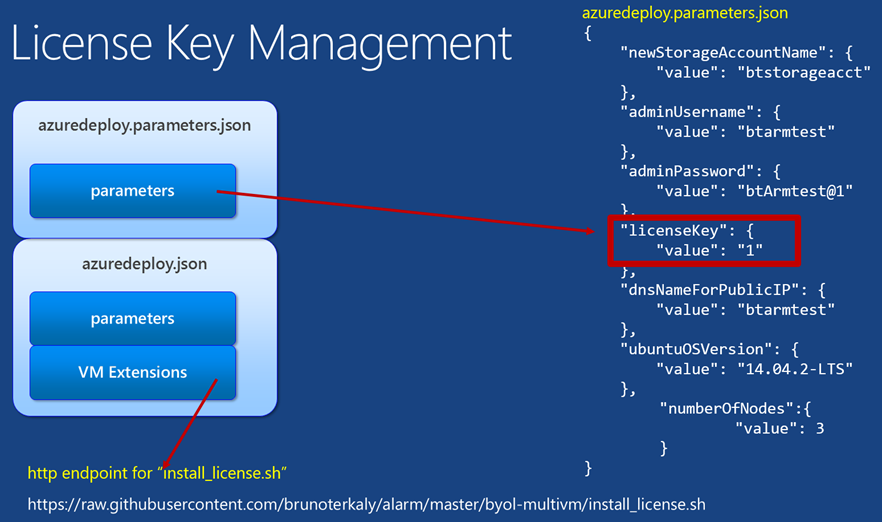
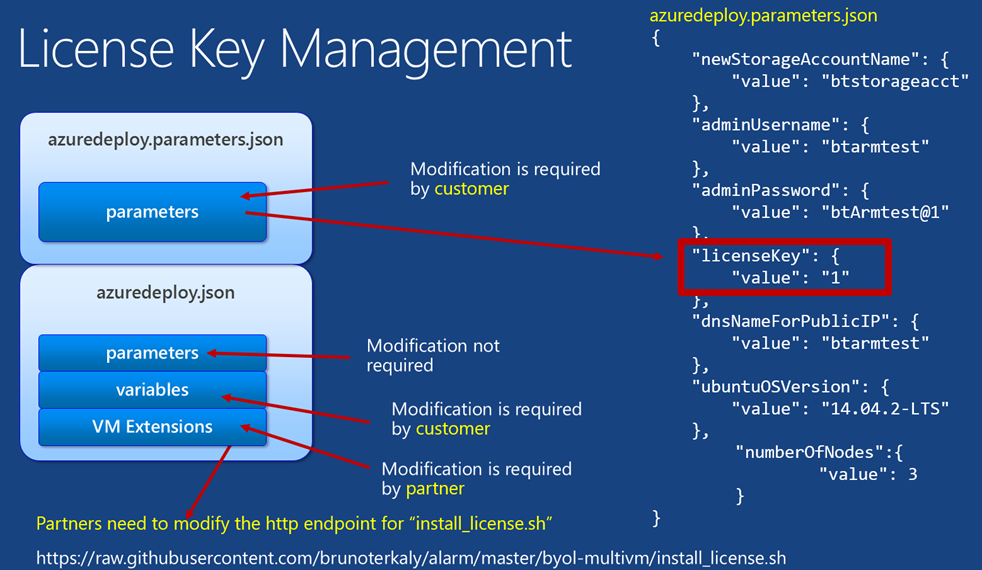
new updates

diff --git a/README.md b/README.md
@@ -15,6 +15,19 @@ Easier for parnters to onboard to the marketplace.
 
 ![](images/buylicense.png)
 
+
+## High level steps
+
+This document will go over some detail steps in deploying license files to Linux VMs. 
+
+- It begins by getting access to a Linux computer that will be used to execute the provisioning process. 
+- The provisioning process will begin by installing the Azure cross platform client tools on the Linux computer.
+-  Next, the necessary installation scripts and provisioning artifacts will be downloaded from Github using the git clone command. 
+	-  Some modifications will need to be made from this downloaded content. Both the partner as well as the customers and the partner will need to make these modifications. The partner defines the way the license file gets copied to the provisioned Linux VM. 
+-  But it is the end customer that runs the provisioning process. It will the customer that places the license key, and defines the attributes of the provisioned infrastructure, physically kick off the provisioning process.
+
+![](images/snap022.png)
+
 ## How this content can help
 
 The purpose of this content is to enable your customers to quickly and easily place the license keys in virtual machines that they provision.
@@ -23,6 +36,7 @@ The purpose of this content is to enable your customers to quickly and easily pl
 - This document will help you simplify replacements of life in school on provisioned virtual machines
 - Your customers will:
 	- Need to begin by provisioning a Linux virtual machine through the portal
+        - If the don't already have a Linux computer
 	- Install the Azure cross platform tooling on the Linux VM
 	- Will clone this repository to the Linux VM
 	- Make necessary changes to azuredeploy.json to include customer information as well as license key information
@@ -30,7 +44,7 @@ The purpose of this content is to enable your customers to quickly and easily pl
 
 ## Getting Setup
 
-If you don't already have one, one of the first things you'll need to do is provision a Linux VM:
+If you don't already have one, one of the first things you'll need to do is provision a Linux computer:
 - This Linux VM will be used to provision a cluster
 - We will install the Azure cross platform tooling on it
 - We will also clone this repository to it
@@ -44,6 +58,8 @@ If you already have a Linux VM, skip to the **Installing the cross-platform tool
 
 #### Getting the connection information of the VM
 
+This applies to those who don't have a Linux computer to run the provisioning process.
+
 Once you have provisioned this virtual machine, you will need to gather its connection information:
 - The IP address
 - The port number
@@ -52,16 +68,18 @@ Once you have provisioned this virtual machine, you will need to gather its conn
 
 #### SSH into the VM (Putty for Windows Users)
 
-From there you will need to remotely connect into that virtual machine. MacOS has built them as SSH capabilities. Windows requires you to install the Putty application. MacOS users simply **ssh** from a console window.
+Skip this step if you already are logged into a Linux VM.
+
+From there you will need to remotely connect into that Linux virtual machine. MacOS has built them as SSH capabilities. Windows requires you to install the Putty application. MacOS users simply **ssh** from a console window.
 
 ![](images/snap003.png)
 
 
 
 
-#### Installing the cross-platform tooling
+## Installing the cross-platform tooling
 
-Your next goal is to install the Azure cross-platform tooling. For Ubuntu images. This is simply a matter of issuing the following commands:
+Your next goal is to install the Azure cross-platform tooling. For Ubuntu images. This is simply a matter of issuing the following commands. Note that there are different commands, depending on whether you have Ubuntu or RPM-based Linux distributions.
 
 **Ubuntu**
 ```
@@ -70,7 +88,7 @@ sudo apt-get install nodejs-legacy
 sudo apt-get install npm
 sudo npm install -g azure-cli
 ``` 
-**RPM Based (CentOS)
+**RPM Based (CentOS)**
 ```
 su – 
 yum update [enter] 
@@ -91,27 +109,32 @@ If tooling was successful, you will just need to type in the following command
 ````
 azure --help
 ````
-
+You should see a number of commands that are available to the Azure cross platform tooling.
 
 
 ![](images/snap006.png)
 
 ## Understanding how to install licensing keys on all provisioned VMs
 
-The following steps will get your started:
+Now that we have a Linux computer from which we can execute the provisioning process, let's take a deeper look at how all the pieces fit together.
 
-- Remote into the Ubuntu Image that we previously created
-	- Login as superuser (sudo -s)
-- Clone the repo
-	- git clone https://github.com/brunoterkaly/alarm.git
-- cd alarm/byol-singlevm
-	- Review the following files
-		- azuredeploy.json  
-		- azuredeploy.parameters.json  
-		- deploy.bat  
-		- install_license.sh
 
-#### Make the necessary changes
+The following steps will get your started. 
+
+
+1. Remote into the Ubuntu Image that we previously created
+	1. Login as superuser (sudo -s)
+1. Run the git clone command to get all the provisioning artifacts on your local Linux computer ( for the Linux VM you provisioned in Azure )
+    1. git clone https://github.com/brunoterkaly/alarm.git
+1. Change directory to alarm/byol-singlevm.
+    1. Review the following files. It is these files that we will modify. Remember that both the partner as well as the customer will make these modifications.
+		1. azuredeploy.json  
+		1. azuredeploy.parameters.json  
+		1. deploy.bat  
+		1. install_license.sh
+
+
+#### Some key points to note about the modifications you will make as a partner and a customer
 
 There are a few things to keep in mind when installing license keys. The license key is found in **azuredeploy.parameters.json.** You can have customers put this in there themselves. The partner will need to provide the appropriate **install_license.sh** script at the http endpoint inside of **azuredeploy.json**.
 
@@ -130,8 +153,7 @@ Both the partner and the customer will play a role here.
 - Customer
 	- Modify the variables section to indicate such things as VM name, VM size, and other attributes relating to naming, networking, storage, and more.
 
-
- modify the VMExtensions area as needed. You fill need to modify the **fileUris** section to point to the correct **install_license.sh** install script. The VM Extensions are a key component to be able to run BASH scripts after the VM is provisioned.
+The **partner** will need to modify the VMExtensions area as needed. You fill need to modify the **fileUris** section to point to the correct **install_license.sh** install script. The VM Extensions are a key component to be able to run BASH scripts after the VM is provisioned. The partner will modify the install_license.sh script as needed for their business.
 
 ```json
 {
@@ -159,6 +181,7 @@ Both the partner and the customer will play a role here.
         }
     }
 ```
+_azuredeploy.json_
 
 You can also modify the **variables** section to reflect vm name, vm size, and other attributes relating to naming, networking, storage, and more.
 
@@ -184,27 +207,102 @@ You can also modify the **variables** section to reflect vm name, vm size, and o
     },
 
 ```
+_azuredeploy.json_
+
+#### Modifying azuredeploy.parameters.json
+
+Key points when modifying:
+
+- The customer will modify this file
+- Important information is here
+- Customers will input the license key they obtain from the partner
+- Customers will want to modify login credentials, and potentially other parameters:
+	- newStorageAccountName 
+	- adminUsername 
+	- adminPassword 
+	- licenseKey 
+	- dnsNameForPublicIP 
+	- ubuntuOSVersion 
+	- numberOfNodes
+
+```json
+{
+    "newStorageAccountName": {
+        "value": "btstorageacct"
+    },
+    "adminUsername": {
+        "value": "btarmtest"
+    },
+    "adminPassword": {
+        "value": "btArmtest@1"
+    },
+    "licenseKey": {
+        "value": "1"
+    },
+    "dnsNameForPublicIP": {
+        "value": "btarmtest"
+    },
+    "ubuntuOSVersion": {
+        "value": "14.04.2-LTS"
+    },
+	"numberOfNodes":{
+		"value": 3
+	}
+}
+
+```
+_azuredeploy.parameters.json_
 
 
-**azuredeploy.json**
+## The customer provisioning process. Executing the deployment. 
 
-You modify the VMExtensions area as needed. You fill need to modify the 
+Once the modifications are made to azuredeploy.json and azuredeploy.parameters.json files have been made, the customer is ready to provision their VMs, networks, storage, and more.
 
+- The Azure Cross-Platform tooling is needed
+- Both partner and customer have updated azuredeploy.json and azuredeploy.parameters.json.
 
-We will use ARM templates and BASH script to install license keys on all provisioned VMs.
+The diagram below illustrates the command line. For more context, see https://azure.microsoft.com/en-us/documentation/articles/virtual-machines-deploy-rmtemplates-azure-cli/.
 
-We will need to 
+The diagram below illustrates:
 
+- Executing the XPlat CLI command:
+
+```
+$ azure group create “myRGroup" "West US" -f azuredeploy.json -d “myDeploy" -e azuredeploy.parameters.json
+```
 
 ![](images/snap012.png)
+
+Notice the **azure group create** command. The assumption made here is the customer has made the necessary modifications to azuredeploy.json and azuredeploy.parameters.json. In addition, the partner has made changes to azuredeploy.json and install_license.sh.
+
  
+The **azure group create...** command works as follows:
 
-## Getting Setup
+- It takes the parameters file and the template file and generates a deployment.
+- azuredeploy.parameters.json
+	- Parameters file 
+- azuredeploy.json
+	- Template file 
 
 
-## Getting Setup
+![](images/paramandtemplate.png)
+
+If you go to http://portal.azure.com, you can see your deployment:
+- Note that this is the **byol-multivm** version
+- This repo also provides **byol-singlevm** version
 
 
-## Getting Setup
+![](images/portal1.png)
+
+
+## Validating successful deployment
+
+Once you have kicked off the deployment, it may take a few moments for the deployment to successfully complete. This next section is designed for the customer wanting to validate successful deployment.
+
+## Video walk-through of the process
+
+The following brief video takes you through some of the considerations outlined above.
+
+## Additional resources
 
 
